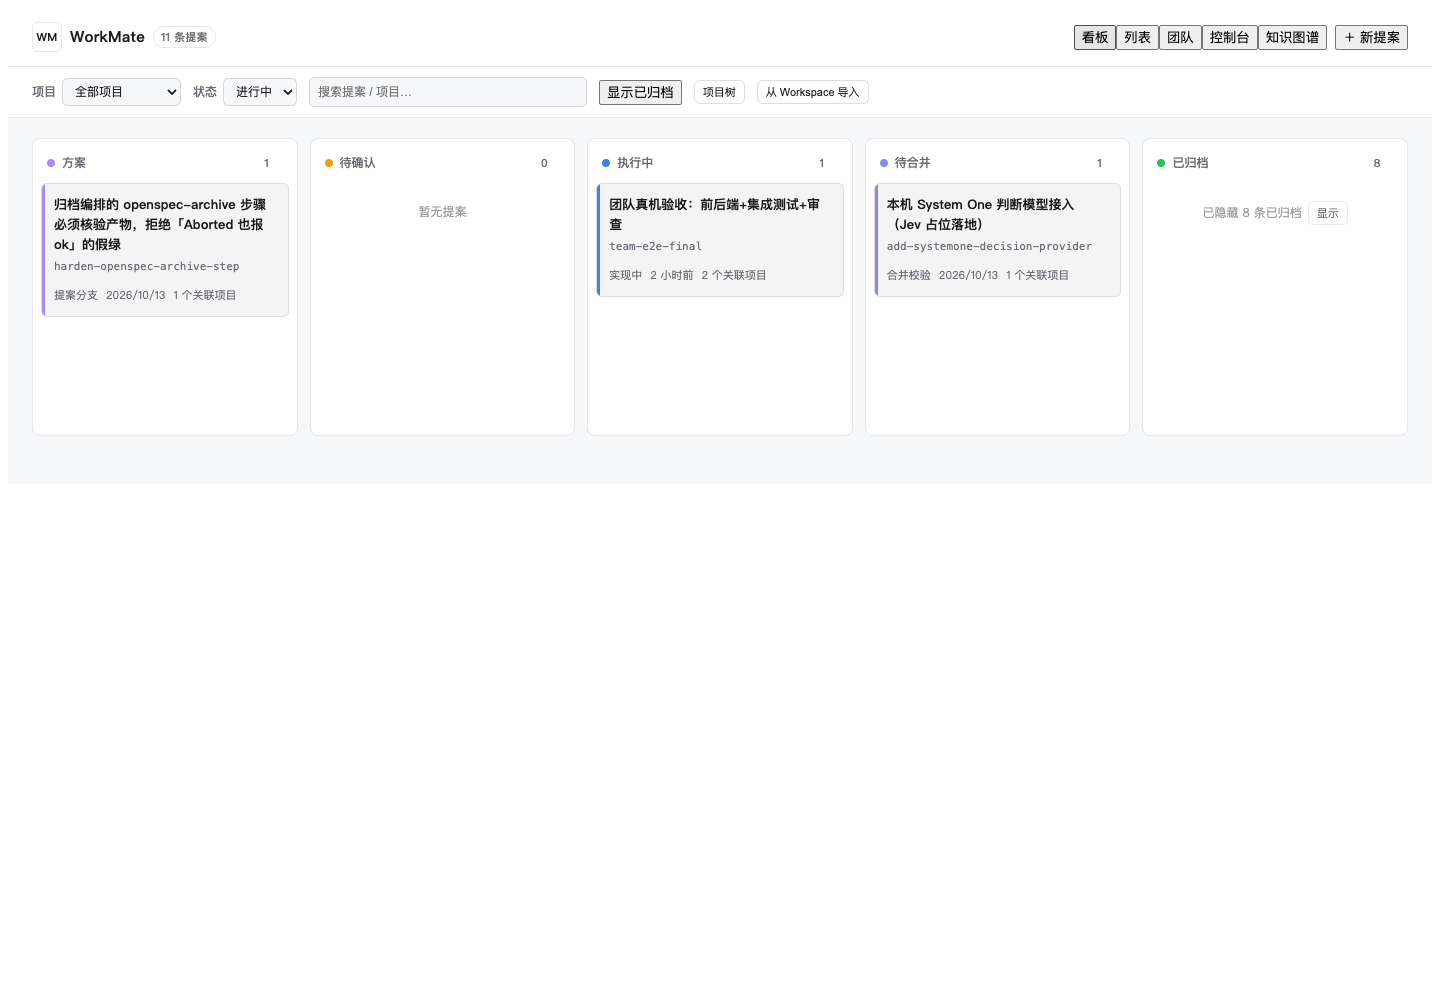
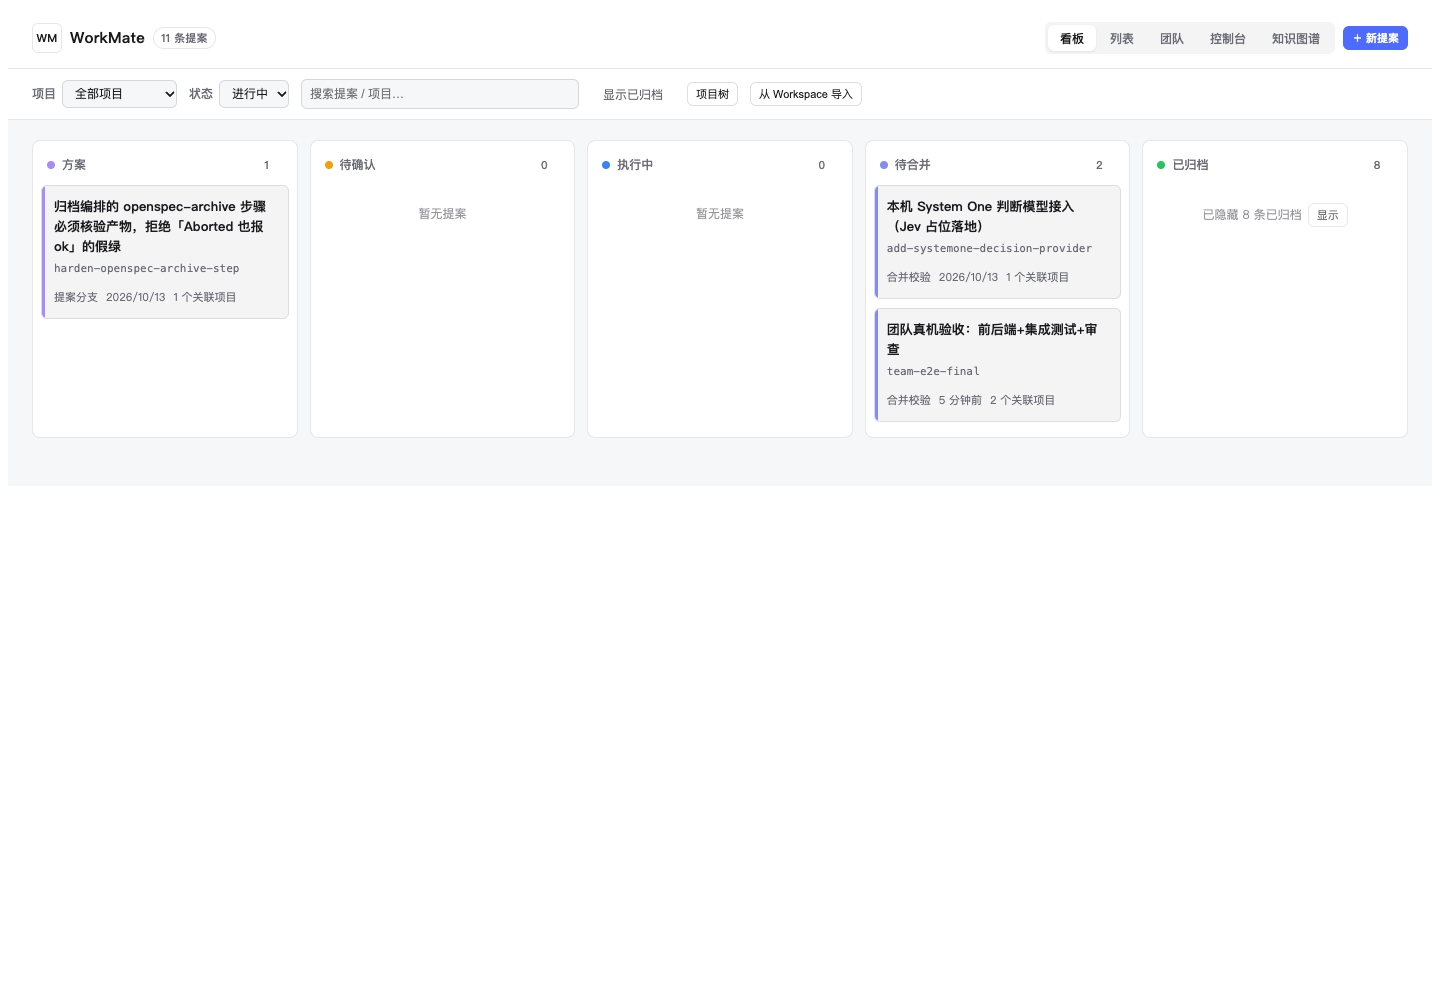
fix(ui): 导入弹窗改用本地控件并修复宿主无样式问题 [proposal:multiproject-branch-workbench]

diff --git a/src/client/controls.tsx b/src/client/controls.tsx
@@ -1,0 +1,124 @@
+/**
+ * Local controls for the WorkMate panel.
+ *
+ * Why not ui-primitives here: the plugin client bundle ships a single JS entry,
+ * while the primitives' CSS modules live in separate hashed stylesheets that the
+ * host does not load for plugin bundles. Using them rendered plain DOM in the
+ * real shell (the import dialog became an inline page). These local controls use
+ * the panel's inline stylesheet, so the panel looks the same in the standalone
+ * route and inside the host.
+ */
+import { useEffect } from 'react'
+import type { ButtonHTMLAttributes, CSSProperties, ReactNode } from 'react'
+
+type ButtonVariant = 'primary' | 'outline' | 'ghost'
+
+export function Btn(
+  props: ButtonHTMLAttributes<HTMLButtonElement> & { variant?: ButtonVariant; size?: 'sm' | 'md'; className?: string },
+): JSX.Element {
+  const { variant = 'outline', size = 'md', className = '', type = 'button', ...rest } = props
+  const classes = ['wm-btn', size === 'sm' ? 'mini' : '', variant === 'primary' ? 'primary' : variant === 'ghost' ? 'subtle' : '', className]
+    .filter(Boolean)
+    .join(' ')
+  return <button className={classes} type={type} {...rest} />
+}
+
+export function Segmented(props: {
+  id?: string
+  value: string
+  label: string
+  options: Array<{ value: string; label: string }>
+  onChange: (value: string) => void
+}): JSX.Element {
+  return (
+    <div className="wm-seg" id={props.id} role="tablist" aria-label={props.label}>
+      {props.options.map((option) => (
+        <button
+          key={option.value}
+          type="button"
+          role="tab"
+          aria-selected={props.value === option.value}
+          className={props.value === option.value ? 'active' : ''}
+          onClick={() => props.onChange(option.value)}
+        >
+          {option.label}
+        </button>
+      ))}
+    </div>
+  )
+}
+
+export function Tag(props: { tone?: 'success' | 'info' | 'warning' | 'danger' | 'outline'; children: ReactNode }): JSX.Element {
+  return <span className={`wm-tag wm-tag-${props.tone ?? 'outline'}`}>{props.children}</span>
+}
+
+export function StateDot(props: { state?: string }): JSX.Element {
+  return <i className={`wm-state-dot wm-state-${props.state ?? 'idle'}`} aria-hidden />
+}
+
+export function PathLabel(props: { path: string; className?: string; style?: CSSProperties }): JSX.Element {
+  const path = props.path.length > 56 ? `${props.path.slice(0, 30)}…${props.path.slice(-20)}` : props.path
+  return (
+    <span className={`wm-path ${props.className ?? ''}`} style={props.style} title={props.path}>
+      {path}
+    </span>
+  )
+}
+
+export function Tooltip(props: { label: string; children: ReactNode; side?: string }): JSX.Element {
+  return <span className="wm-tip" title={props.label}>{props.children}</span>
+}
+
+export function Pill(props: ButtonHTMLAttributes<HTMLButtonElement> & { active?: boolean }): JSX.Element {
+  const { active = false, className = '', type = 'button', ...rest } = props
+  return <button className={`wm-pill${active ? ' active' : ''} ${className}`.trim()} type={type} {...rest} />
+}
+
+export function DisclosureRow(props: { icon?: string; title: string; open?: boolean; expandable?: boolean; onToggle: () => void }): JSX.Element {
+  return (
+    <button className="wm-disclosure" type="button" onClick={props.onToggle}>
+      <span className="wm-disclosure-icon">{props.open ? '▾' : props.icon ?? '▸'}</span>
+      {props.title}
+    </button>
+  )
+}
+
+export function Modal(props: {
+  open: boolean
+  onClose: () => void
+  title: string
+  closeLabel?: string
+  footer?: ReactNode
+  children?: ReactNode
+}): JSX.Element | null {
+  useEffect(() => {
+    if (!props.open) return
+    const handler = (event: KeyboardEvent): void => {
+      if (event.key === 'Escape') props.onClose()
+    }
+    document.addEventListener('keydown', handler)
+    return () => document.removeEventListener('keydown', handler)
+  }, [props.open, props.onClose])
+
+  if (!props.open) return null
+  return (
+    <div className="wm-modal" role="presentation" onMouseDown={props.onClose}>
+      <div
+        className="wm-modal-box"
+        role="dialog"
+        aria-modal="true"
+        aria-label={props.title}
+        onMouseDown={(event) => event.stopPropagation()}
+      >
+        <header className="wm-modal-head">
+          <h3>{props.title}</h3>
+          <button className="wm-btn mini" type="button" aria-label={props.closeLabel ?? '关闭'} onClick={props.onClose}>
+            ✕
+          </button>
+        </header>
+        <div className="wm-modal-body">{props.children}</div>
+        {props.footer !== undefined && <footer className="wm-modal-foot">{props.footer}</footer>}
+      </div>
+    </div>
+  )
+}

diff --git a/src/client/App.tsx b/src/client/App.tsx
@@ -6,15 +6,7 @@
  * creation lives in a modal with a project picker.
  */
 import { useCallback, useEffect, useMemo, useRef, useState } from 'react'
-import { Button } from '@deepseek-ai/dsh-client-ui-primitives/src/Button.tsx'
-import { SegmentedControl } from '@deepseek-ai/dsh-client-ui-primitives/src/SegmentedControl.tsx'
-import { Tag } from '@deepseek-ai/dsh-client-ui-primitives/src/Tag.tsx'
-import { StateDot } from '@deepseek-ai/dsh-client-ui-primitives/src/StateDot.tsx'
-import { PathLabel } from '@deepseek-ai/dsh-client-ui-primitives/src/PathLabel.tsx'
-import { DisclosureRow } from '@deepseek-ai/dsh-client-ui-primitives/src/DisclosureRow.tsx'
-import { Modal } from '@deepseek-ai/dsh-client-ui-primitives/src/Modal.tsx'
-import { Tooltip } from '@deepseek-ai/dsh-client-ui-primitives/src/Tooltip.tsx'
-import { Pill } from '@deepseek-ai/dsh-client-ui-primitives/src/Pill.tsx'
+import { Btn, DisclosureRow, Modal, PathLabel, Pill, Segmented, StateDot, Tag, Tooltip } from './controls'
 import { getBands, getMetrics } from './api'
 import type { AggregateMetrics, BandEvaluation, BandsPayload } from './types'
 import {
@@ -368,7 +360,7 @@ export function ProposalPanel(props: { projectRoot?: string }): JSX.Element {
           <span className="wm-count">{proposals.length} 条提案</span>
         </div>
         <div className="wm-toolbar">
-          <SegmentedControl
+          <Segmented
             id="wm-view"
             value={view}
             label="视图"
@@ -379,11 +371,11 @@ export function ProposalPanel(props: { projectRoot?: string }): JSX.Element {
               { value: 'console', label: '控制台' },
               { value: 'graph', label: '知识图谱' },
             ]}
-            onChange={(next) => setView(next)}
+            onChange={(next) => setView(next as typeof view)}
           />
-          <Button variant="primary" size="sm" type="button" onClick={() => setCreateOpen(true)}>
+          <Btn variant="primary" size="sm" type="button" onClick={() => setCreateOpen(true)}>
             ＋ 新提案
-          </Button>
+          </Btn>
         </div>
       </header>
 
@@ -1506,6 +1498,21 @@ function ImportProjectsModal(props: {
     }
   }
 
+  async function addAll(): Promise<void> {
+    setBusy('*')
+    try {
+      for (const candidate of candidates.filter((entry) => !entry.registered)) {
+        await registerProject(candidate.suggestedName, candidate.path, { workspace: candidate.workspace })
+      }
+      await props.onImported()
+      setCandidates((prev) => prev.filter((entry) => entry.registered))
+    } catch (cause) {
+      props.onError(cause instanceof Error ? cause.message : String(cause))
+    } finally {
+      setBusy('')
+    }
+  }
+
   return (
     <Modal
       open
@@ -1513,9 +1520,16 @@ function ImportProjectsModal(props: {
       title="从 DSH Workspace 导入项目"
       closeLabel="关闭"
       footer={
-        <Button variant="outline" size="sm" type="button" onClick={props.onClose}>
-          关闭
-        </Button>
+        <>
+          <Btn variant="outline" size="sm" type="button" onClick={props.onClose}>
+            关闭
+          </Btn>
+          {candidates.filter((entry) => !entry.registered).length > 1 && (
+            <Btn variant="primary" size="sm" type="button" disabled={busy !== ''} onClick={() => void addAll()}>
+              {busy === '*' ? '加入中…' : `全部加入（${candidates.filter((entry) => !entry.registered).length}）`}
+            </Btn>
+          )}
+        </>
       }
     >
         <p className="wm-progress-label">只列出 git 仓库；导入后仍可在项目树里改默认分支与工作区。</p>
@@ -1530,7 +1544,7 @@ function ImportProjectsModal(props: {
               <div className="wm-import-row" key={candidate.path}>
                 <div>
                   <b>{candidate.title || candidate.name}</b>
-                  {candidate.hasOpenspec && <span className="wm-context-meta"> · openspec</span>}
+                  {candidate.hasOpenspec && <span className="wm-tag wm-import-badge">openspec</span>}
                   <PathLabel path={candidate.path} className="wm-import-path" />
                 </div>
                 <div className="wm-actions">
@@ -1538,7 +1552,7 @@ function ImportProjectsModal(props: {
                     <span className="wm-context-meta">已注册为 {candidate.registeredAs}</span>
                   ) : (
                     <button
-                      className="wm-btn mini primary"
+                      className="wm-btn mini"
                       type="button"
                       disabled={busy !== ''}
                       onClick={() => void add(candidate)}

diff --git a/src/client/styles.ts b/src/client/styles.ts
@@ -538,7 +538,7 @@ export const PANEL_STYLE = `
 .wm-table tbody tr:hover { background: var(--wm-hover); }
 .wm-drawer { width: min(560px, 100vw); padding: 20px 24px; background: var(--wm-surface); border-left: 0.5px solid var(--wm-border); }
 .wm-drawer-head h3 { font-size: 16px; font-weight: 600; }
-.wm-modal { padding: 24px; }
+.wm-modal { align-items: center; padding: 24px; }
 .wm-modal-box {
   width: min(560px, 100%); padding: 24px;
   background: var(--dsw-alias-bg-layer-2, var(--wm-surface));
@@ -559,5 +559,49 @@ export const PANEL_STYLE = `
 .wm-empty { padding: 56px 0; font-size: 13px; }
 .wm-section-title, .wm-card-title { font-size: 13px; font-weight: 600; }
 .wm-skeleton-row { border-radius: var(--dsw-radius-sm, 6px); }
+
+/* local controls (replace ui-primitives CSS that the host does not load for plugins) */
+.wm-seg { display: inline-flex; align-items: center; gap: 2px; padding: 3px; background: var(--wm-code); border-radius: var(--dsw-radius-sm, 6px); }
+.wm-seg button {
+  height: 26px; padding: 0 12px; border: 0; border-radius: var(--dsw-radius-sm, 6px);
+  background: transparent; color: var(--wm-muted); font-size: 12px; font-weight: 500; cursor: pointer;
+}
+.wm-seg button:hover { color: var(--wm-fg); }
+.wm-seg button.active { background: var(--wm-card); color: var(--wm-fg); box-shadow: 0 1px 2px rgba(15,23,42,.08); }
+.wm-tag {
+  display: inline-flex; align-items: center; height: 20px; padding: 0 7px;
+  border-radius: 999px; font-size: 11px; font-weight: 500; white-space: nowrap;
+  color: var(--wm-muted); background: var(--wm-code);
+}
+.wm-tag-success { color: var(--dsw-alias-state-success-primary, #22c55e); background: color-mix(in srgb, var(--dsw-alias-state-success-primary, #22c55e) 10%, transparent); }
+.wm-tag-info { color: var(--dsw-alias-state-business-primary, #4d6bfe); background: color-mix(in srgb, var(--dsw-alias-state-business-primary, #4d6bfe) 10%, transparent); }
+.wm-tag-warning { color: var(--dsw-alias-state-warn-primary, #f59e0b); background: color-mix(in srgb, var(--dsw-alias-state-warn-primary, #f59e0b) 12%, transparent); }
+.wm-tag-danger { color: var(--dsw-alias-state-error-primary, #ef4444); background: color-mix(in srgb, var(--dsw-alias-state-error-primary, #ef4444) 10%, transparent); }
+.wm-state-dot { display: inline-block; width: 7px; height: 7px; border-radius: 50%; background: var(--wm-muted); flex: none; }
+.wm-state-done { background: var(--dsw-alias-state-success-primary, #22c55e); }
+.wm-state-ongoing { background: var(--dsw-alias-state-business-primary, #4d6bfe); }
+.wm-state-warning { background: var(--dsw-alias-state-warn-primary, #f59e0b); }
+.wm-state-error { background: var(--dsw-alias-state-error-primary, #ef4444); }
+.wm-state-idle { background: var(--dsw-alias-state-idle-primary, #c9ccd1); }
+.wm-path { display: block; min-width: 0; overflow: hidden; text-overflow: ellipsis; white-space: nowrap; }
+.wm-tip { display: inline-flex; }
+.wm-disclosure {
+  display: flex; align-items: center; gap: 8px; width: 100%; padding: 10px 16px;
+  border: 0; border-top: 0.5px solid var(--wm-border-soft); background: transparent;
+  color: var(--wm-muted); font-size: 12px; text-align: left; cursor: pointer;
+}
+.wm-disclosure:hover { background: var(--wm-hover); color: var(--wm-fg); }
+.wm-disclosure-icon { font-size: 10px; }
+.wm-modal-head { display: flex; align-items: center; justify-content: space-between; gap: 12px; margin-bottom: 12px; }
+.wm-modal-head h3 { margin: 0; font-size: 16px; font-weight: 600; }
+.wm-modal-body { max-height: min(60vh, 520px); overflow-y: auto; }
+.wm-modal-foot { display: flex; justify-content: flex-end; gap: 8px; margin-top: 16px; }
+.wm-import-list { margin: 12px 0 0; gap: 0; }
+.wm-import-row { padding: 10px 0; border: 0; border-top: 0.5px solid var(--wm-border-soft); border-radius: 0; align-items: flex-start; }
+.wm-import-row:first-child { border-top: 0; }
+.wm-import-row > div:first-child { min-width: 0; }
+.wm-import-row .wm-path { font-family: ui-monospace, SFMono-Regular, Menlo, monospace; font-size: 11px; color: var(--wm-muted); margin-top: 2px; }
+.wm-import-row .wm-actions { flex: none; }
+.wm-import-badge { margin-left: 6px; vertical-align: 1px; }
 
 `

diff --git a/docs/UI-EVALUATION.md b/docs/UI-EVALUATION.md
@@ -87,3 +87,15 @@
 - 按钮/输入/选择器统一 28px 高、0.5px 边框、6px 圆角。
 
 截图：`v3-list.png`、`v3-board.png`、`v3-team.png`、`v3-console.png`、`v3-graph.png`。
+
+## 导入弹窗修复（2026-10-19）
+
+根因不是布局，而是 **ui-primitives 的 CSS modules 没有随插件客户端 bundle 加载**（宿主 CSS 的 hash 类名与插件 bundle 不一致），`Modal` 因此渲染为无样式的全页 DOM。
+
+- 新增 `src/client/controls.tsx`：Btn / Segmented / Tag / StateDot / PathLabel / Tooltip / Pill / DisclosureRow / Modal 全部本地实现，使用面板内联样式；
+- 导入弹窗改回居中模态（overlay + 560px 卡片 + 关闭按钮 + 底部按钮）；
+- openSpec 标记改为中性 Tag；行内“加入项目”改次级按钮；底部增加“全部加入（N）”；
+- 路径单行省略 + title，长仓库名不再挤压按钮；
+- 同时消除宿主内 Button/Tag/Segmented 裸样式问题。
+
+截图：`import-current.png`、`v3-list.png`。
